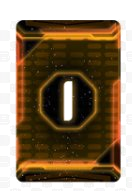
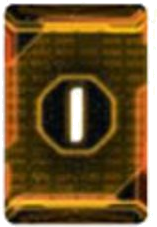
Add files via upload

diff --git a/index.html b/index.html
@@ -1,5 +1,5 @@
 <!DOCTYPE html>
-<!-- TI4 Tracker 2.016 -->
+<!-- TI4 Tracker 2.017 -->
 <html lang="en">
 <head>
 <meta charset="UTF-8">
@@ -209,7 +209,7 @@ label { font-size: 12px; color: var(--text-dim); display: block; margin-bottom: 
 // TI4 Tracker - Single file, no module systems, no IIFEs
 // =============================================================================
 
-var VERSION = '2.016';
+var VERSION = '2.017';
 document.getElementById('version-display').textContent = 'v' + VERSION;
 
 // Debug logger - silent unless panel toggled open